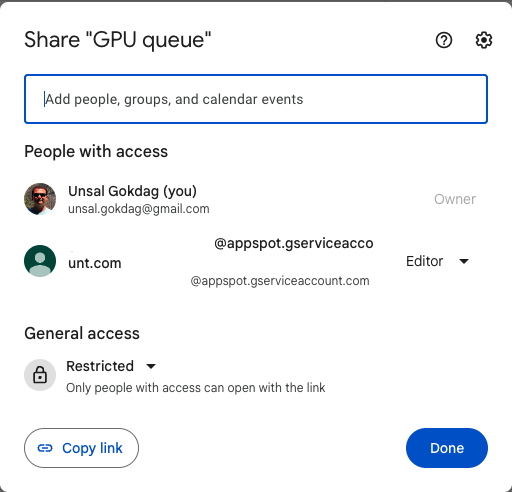
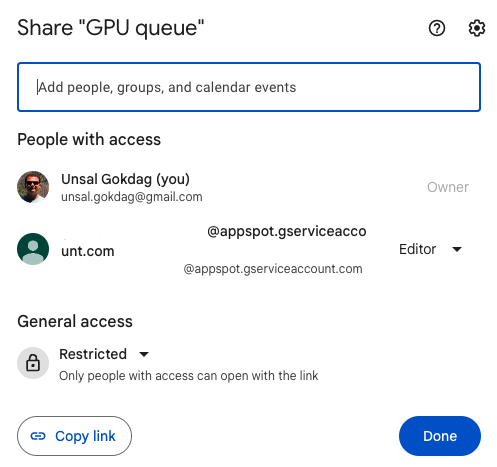
changing wrt feedback

diff --git a/_posts/2024-02-14-A-Centralized-Queue-System-with-Terminal-and-Python.md b/_posts/2024-02-14-A-Centralized-Queue-System-with-Terminal-and-Python.md
@@ -12,18 +12,18 @@ comments: true
 author: Dr. Ünsal Gökdağ
 ---
 ## TL;DR
-You can run multiple resources (GPU) consuming a central queue system(gsheet) with minimal intervention (mobile phone) 24/7 any place, any time (again, mobile phone) and also, check its status (logging, wandb).
+You can run multiple resources (GPU) consuming a central queue system(gsheet) with minimal intervention (mobile phone) 24/7 any place, any time and also check its status (logging, wandb).
 
-Interested in the solution? [Look at the end of the article](## PS: Whole Code)
+Interested in the solution? [Look at the end of the article](### PS: Whole Code)
 
 Interested in the process? Read along..
 
 ## The Problem
-I'm currently doing *a lot* of experiments on [runpod](https://runpod.io?ref=7mip03at) for machine learning purposes and I have realised that I'm constantly using at least 2 GPUs, all the time. I remember getting up from sleep and making typing a simple run script, changing a few characters and the going back to sleep and I did not liked this experience.
+I'm currently conducting *a lot* of machine learning experiments on [runpod](https://runpod.io?ref=7mip03at) and I have realised that I'm constantly using at least 2 GPUs, all the time. I remember getting up from sleep and typing a simple run script, changing a few characters and the going back to sleep and I did not liked this experience.
 
-So I started dabbling with chatGPT to create a simple bash script that reads a file which is literally called `gpu_queue.txt`, reads the first line and execute it. After a few minutes, a running version was working as intended.
+So I started dabbling with chatGPT to create a simple bash script that opens a file, reads the first line and execute it. After a few minutes, it was working as intended.
 
-What I have started as a requirement is that multiple version of this should be able to run concurrently without executing lines from the queue unless the gpu is free of use. Checking that required me to use file locks which I liked learning from chatGPT but the end solution became something *different* but *better* a bit in my opinion.
+What I have started as a requirement is that multiple instances of this should be able to run concurrently without executing lines from the queue unless the gpu is free of use. Checking that required me to use file locks which I liked learning from chatGPT but the end solution became something *different*.
 
 ## The Solution
 I have thought about the ideal solution should have these:
@@ -51,16 +51,20 @@ This part is a while loop with a 5 second delay that executes the queue if the g
 
 Execute Queue consists of 4 parts:
 - Reading an element from the queue
-- Executing this with first additional parameters: To estimate batch size
+- Executing this with first fixed batch size and lower iteration: To estimate batch size memory usage
+	- a sub-process is observing the memory usage every `u` second (details)
+	- disable logging since this is a temporary run,
 	- Measuring maximum gpu memory during this period
 - Executing this with second additional parameters: To make the actual run
+	- Override the fixed batch size
+	- override logging to enable logging
 
-Lets go over the this party by part:
+Lets go over this party by part:
 ### Reading an Element from the Queue
 
 This part is up to your taste and/or requirements.
 
-I have used the way satisfies all of my requirements. I'm reading the queue from a gsheet that I own. The ghseet is quite simple, it consists of one column of text entries as being the "Queue" and one *counter* which denotes the current location in the queue.
+I have used the way satisfies all of my requirements. I'm reading the queue from a gsheet that I own. The gsheet is quite simple, it consists of one column of text entries as being the "Queue" and one *counter* which denotes the current location in the queue.
 
 ![[assets/2024-02-14-A-Centralized-Queue-System-with-Terminal-and-Python/gsheet_screenshot.png]]
 ![]({{'assets/2024-02-14-A-Centralized-Queue-System-with-Terminal-and-Python/gsheet_screenshot.png' | relative_url}})
@@ -102,9 +106,9 @@ if __name__ == "__main__":
 
 ```
 
-Quite simple, just reading `B1` cell and offsetting the line to read from `C` column. You can make it as complicated as you want of course.
+Quite simple, just reading `B1` cell and offsetting the line to read from `C` column, easy to change or replace with another logic.
 
-![[share_with_service_account.png]]
+![[share_with_service_account2.png]]
 ![]({{'assets/2024-02-14-A-Centralized-Queue-System-with-Terminal-and-Python/share_with_service_account.png' | relative_url}}){: .mx-auto.d-block :}
 
 *don't forget to add your service account as writer to the gsheet*{: .mx-auto.d-block :}
